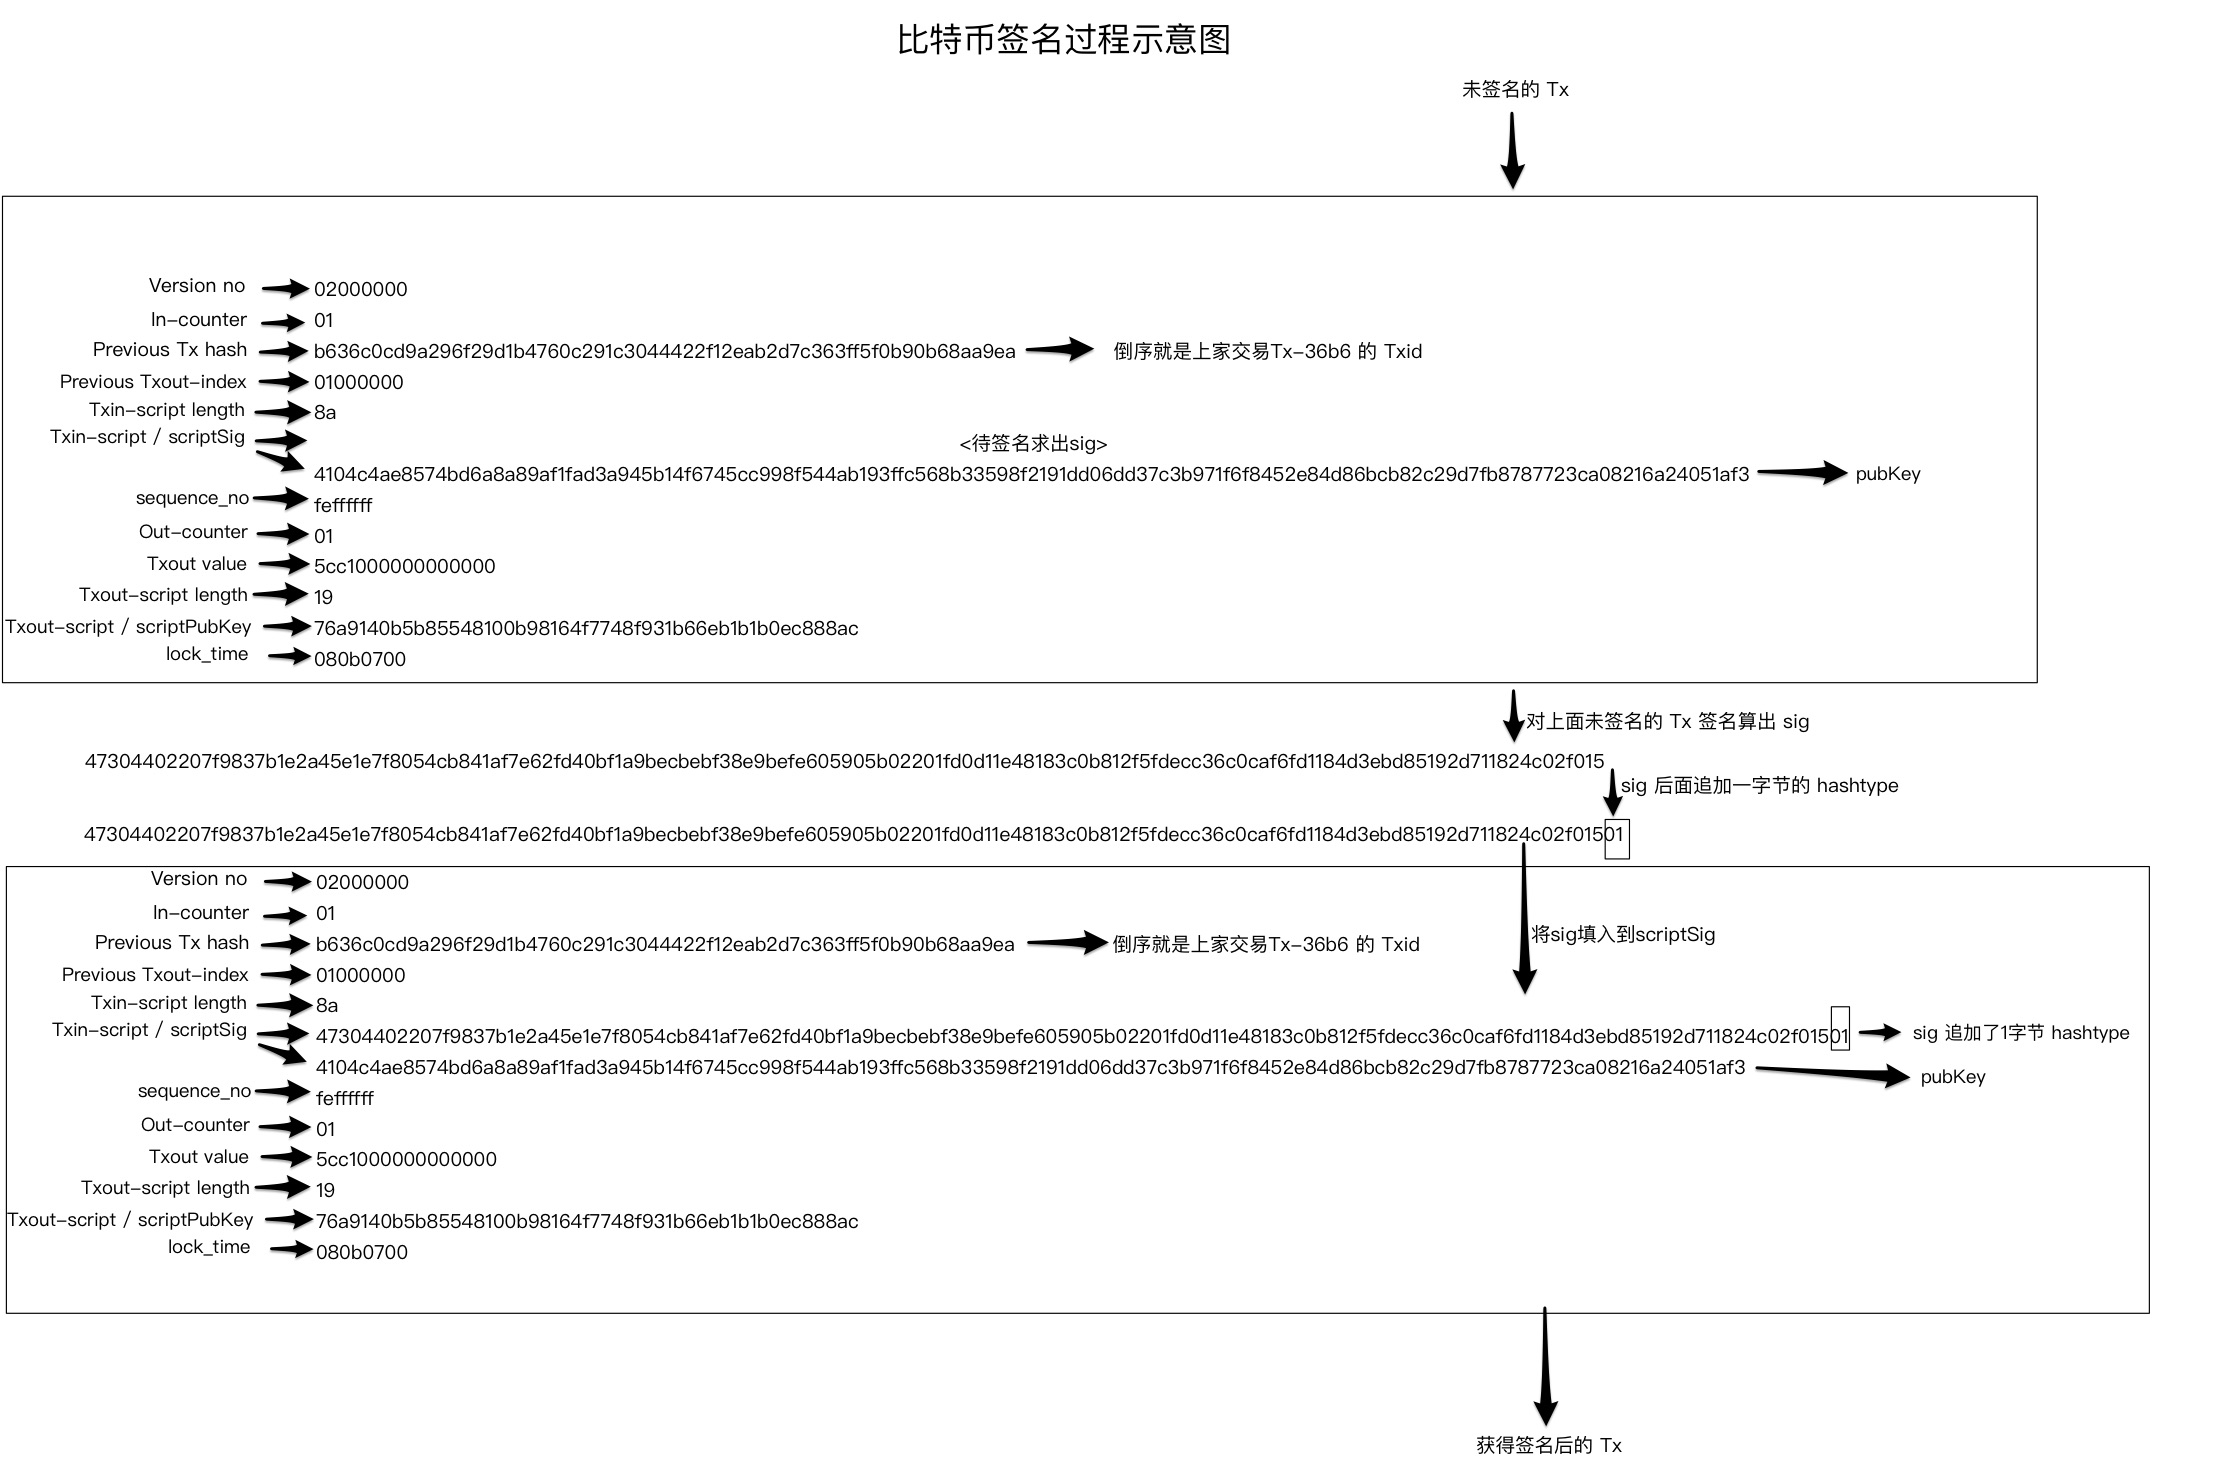
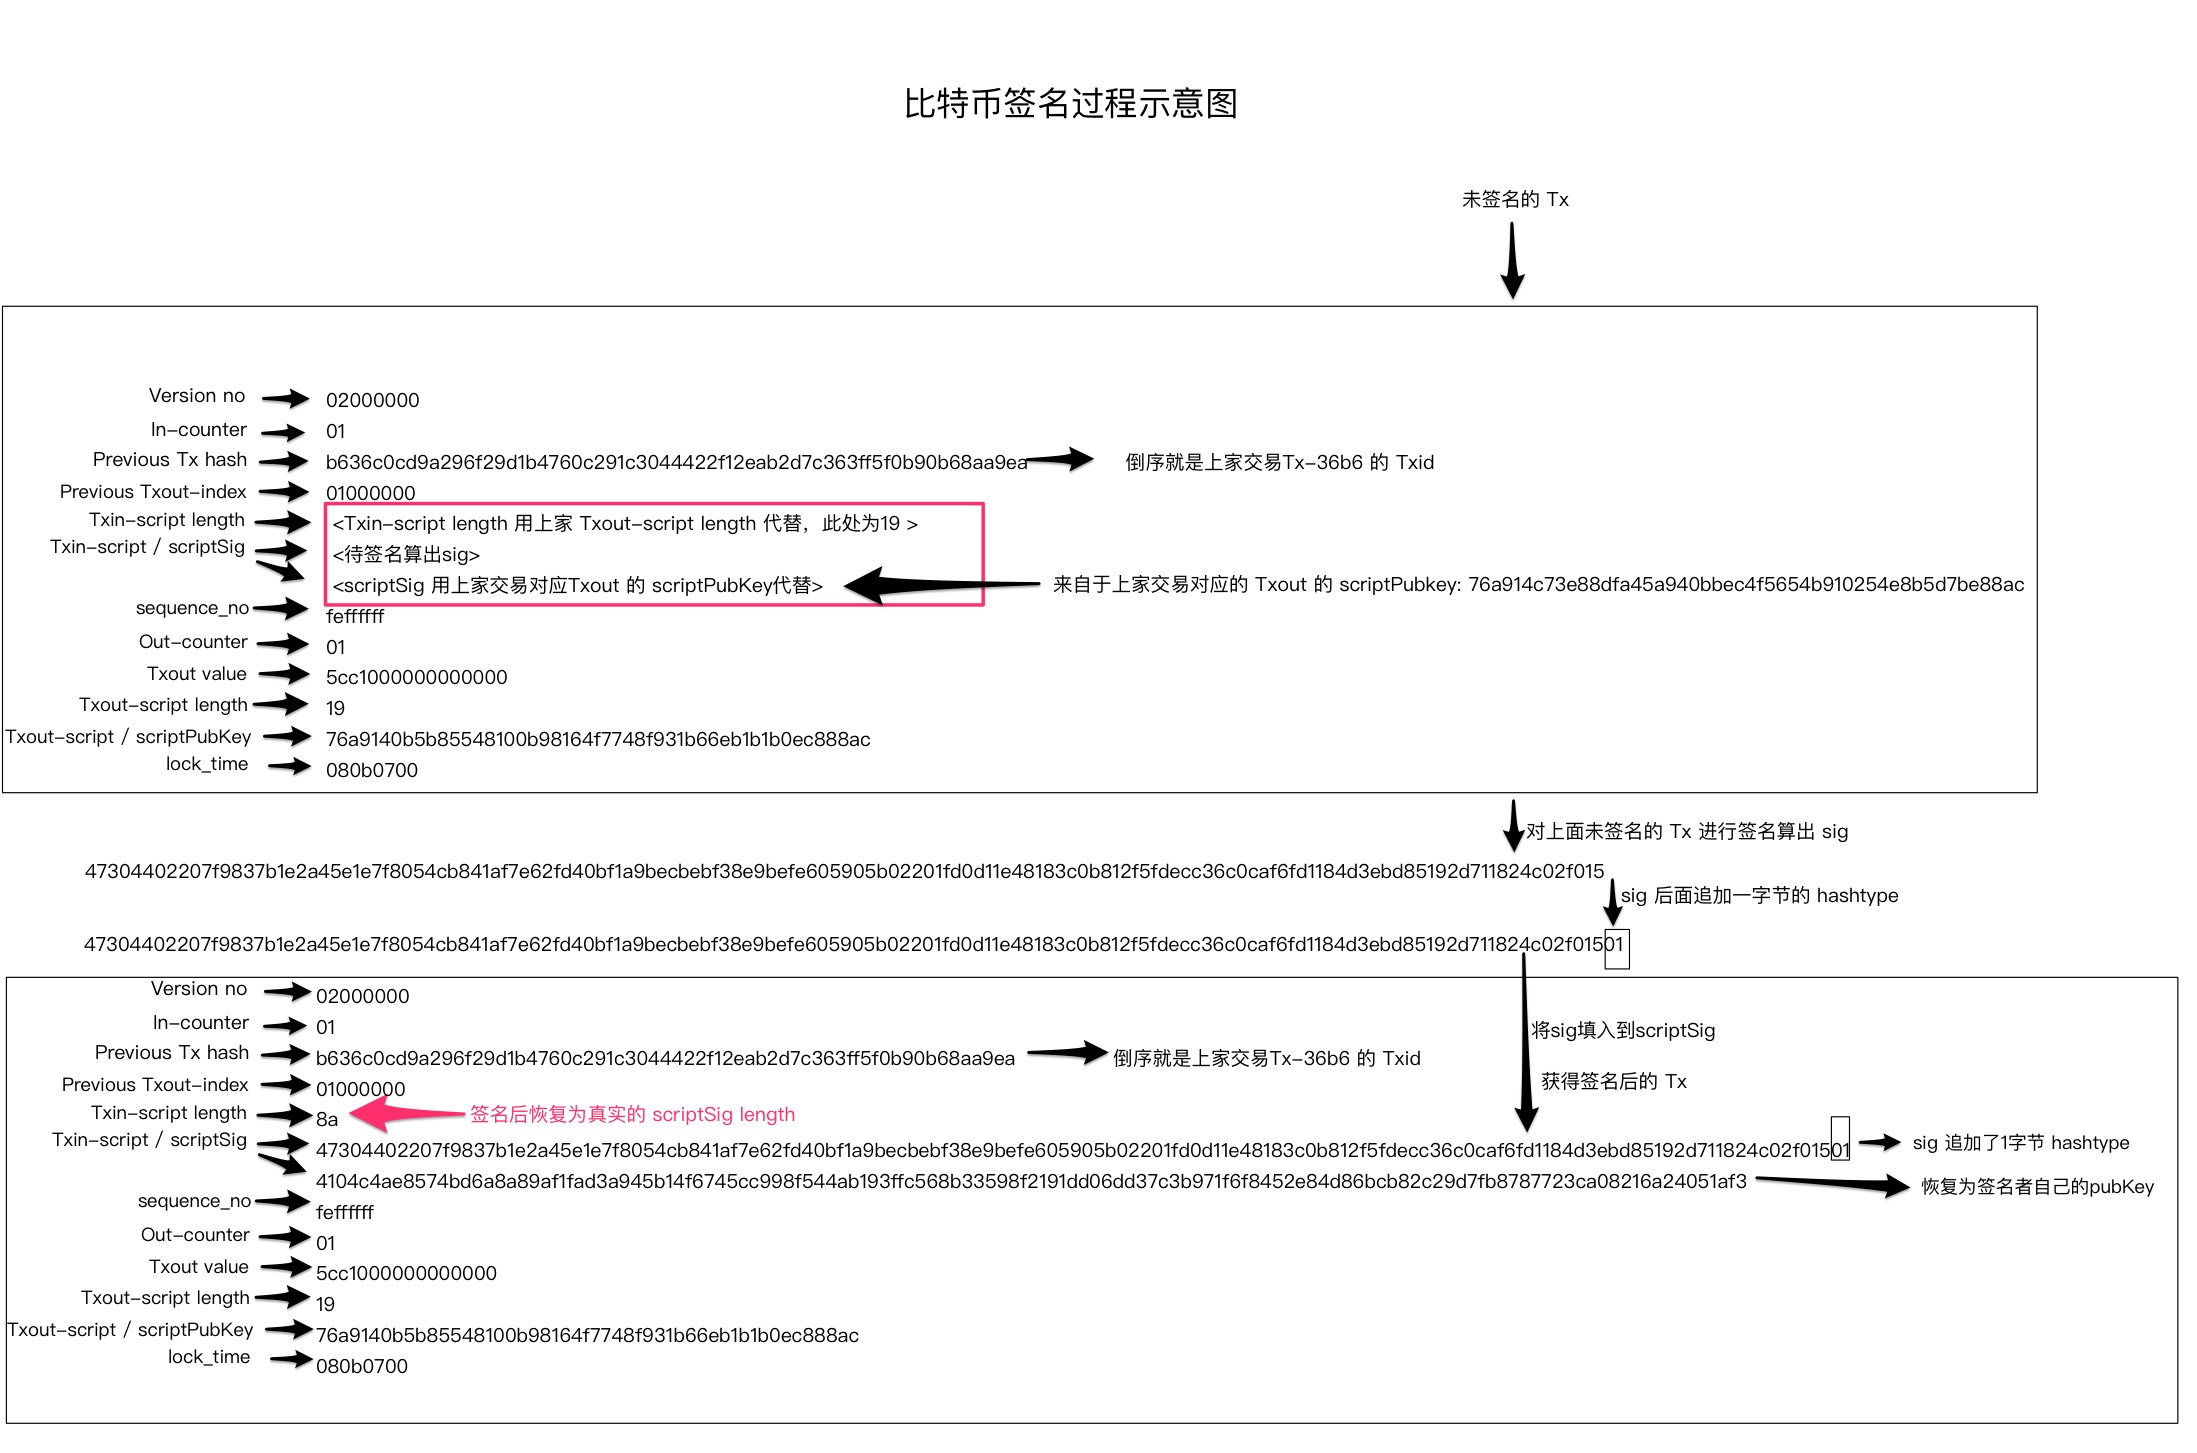
update

diff --git a/_posts/2017-05-11-7daystalk.md b/_posts/2017-05-11-7daystalk.md
@@ -1885,6 +1885,12 @@ S : 75E04C4E1152376F3F11AAF5D3039EAC29686D03E023356F543643221007609E
 
 ![btctx-sig-proc](/images/btctx-sig-proc.jpg)
 
+上图中的数据是真实的,其中,
+
+上家交易是 [https://blockexplorer.com/api/tx/eaa98ab6900b5fff63c3d7b2ea122f4244301c290c76b4d1296f299acdc036b6](https://blockexplorer.com/api/tx/eaa98ab6900b5fff63c3d7b2ea122f4244301c290c76b4d1296f299acdc036b6)
+
+下家交易是 [https://blockexplorer.com/api/tx/1e4f607d33175aa3b0a854c7d494ee0eb0ac3f0fc0a759ad1ddf88efbe8cd37d](https://blockexplorer.com/api/tx/1e4f607d33175aa3b0a854c7d494ee0eb0ac3f0fc0a759ad1ddf88efbe8cd37d)
+
 ##### 2.2.2.4 生成 scriptSig
 
 ##### 2.2.2.5 现在我们创造由自己掌控私钥的创世交易
